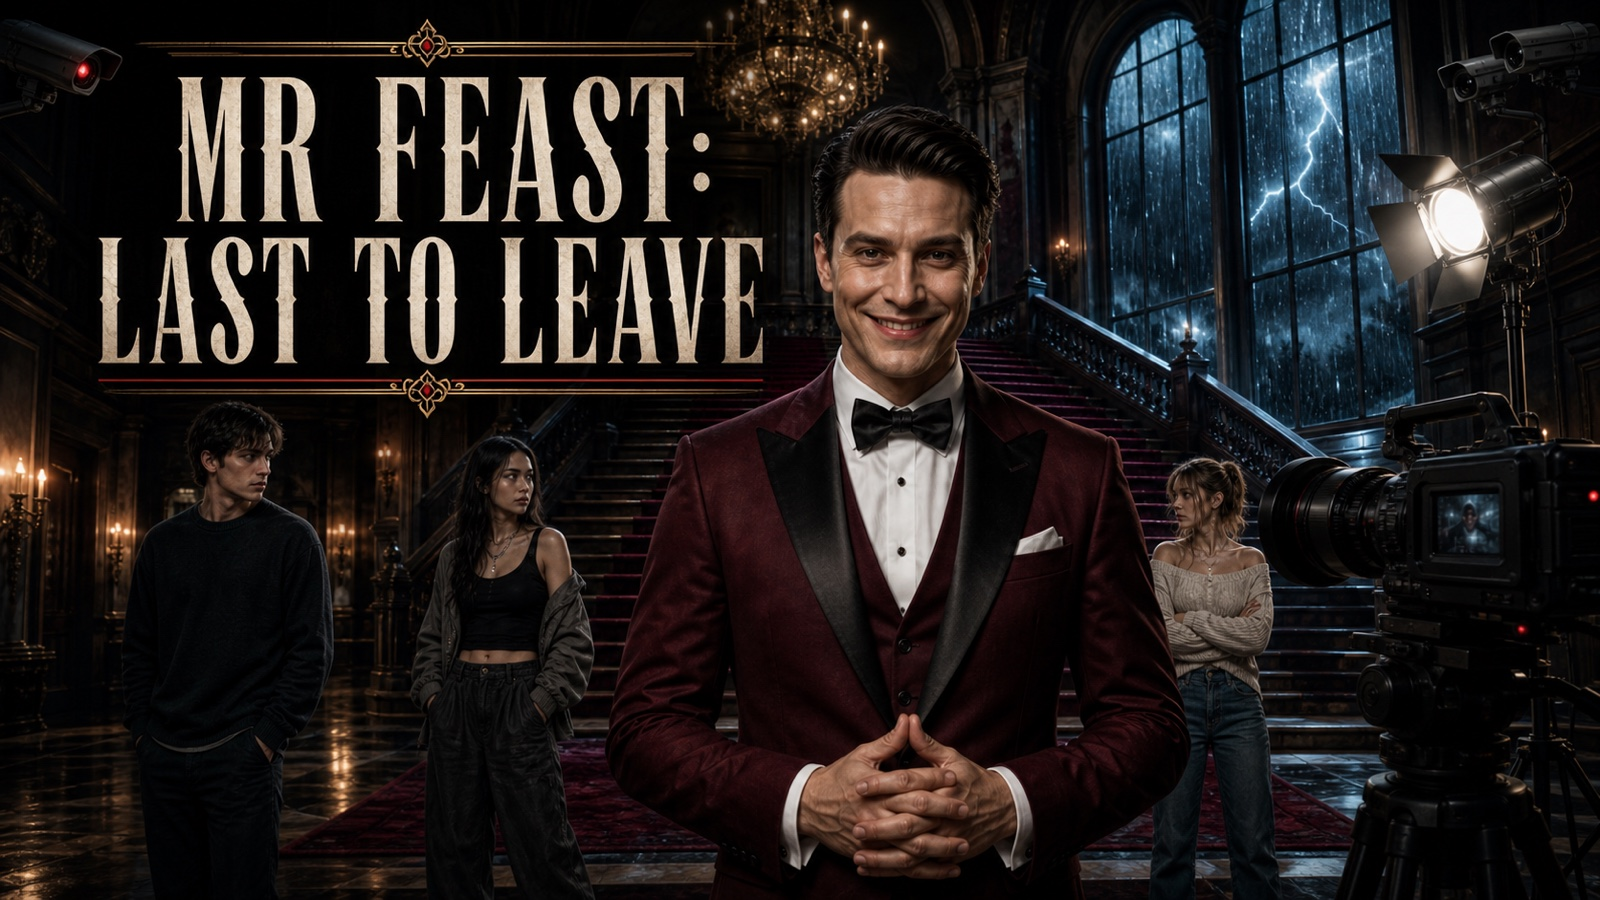
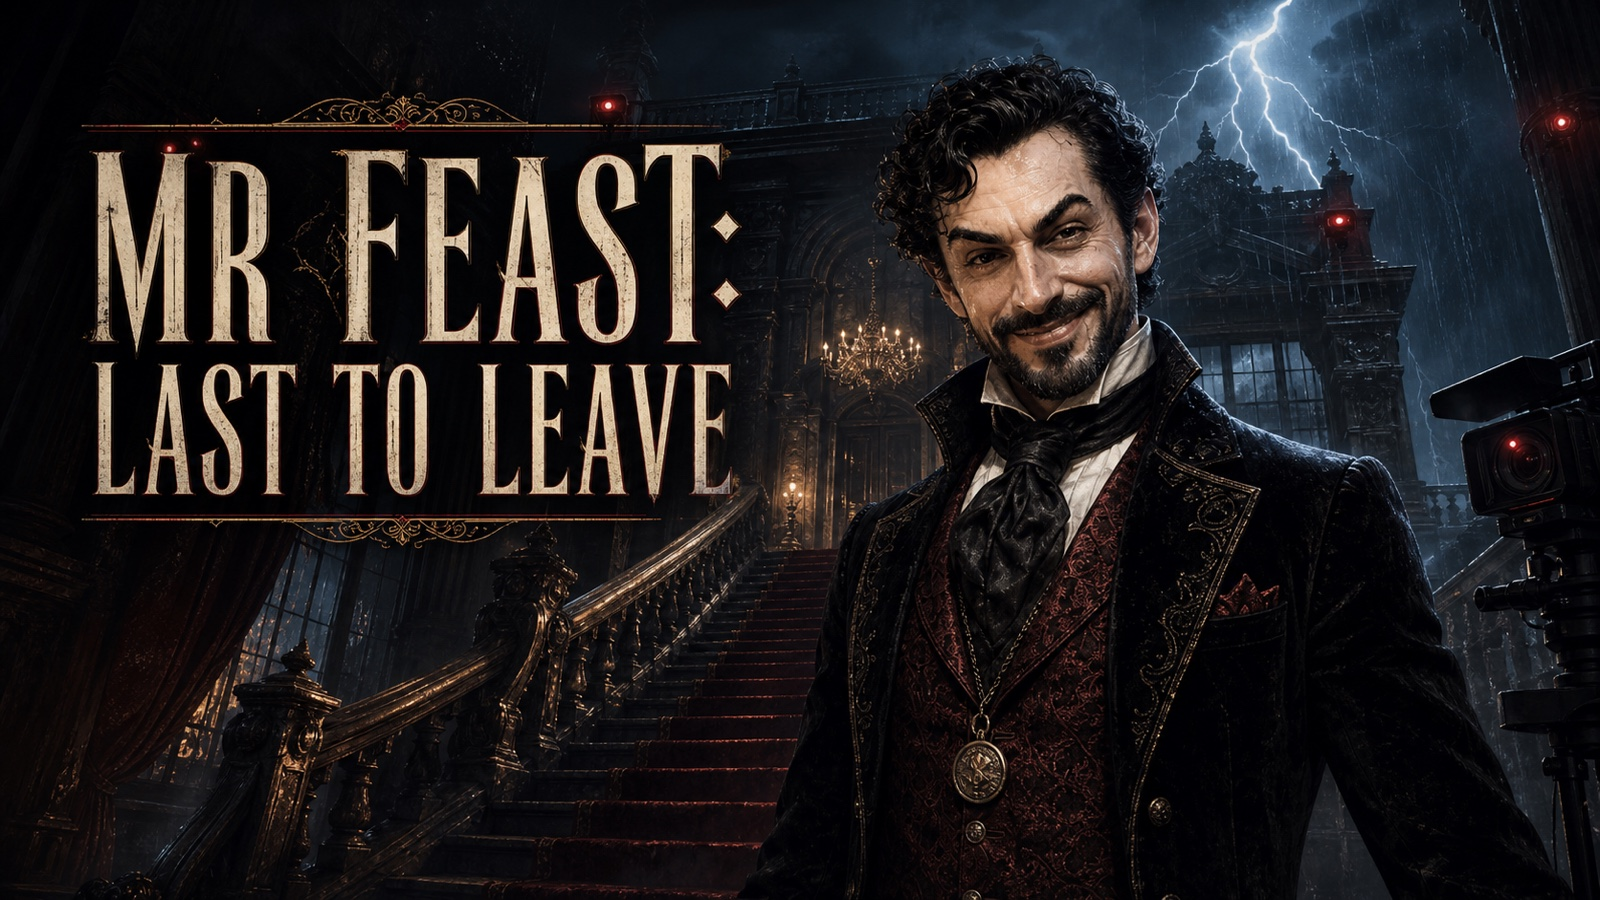
Finish Last to Leave rebrand with host cover and native menus
Update shared catalog metadata, host-only cover art, and rebrand QA, and stop Rainbot's shared Escape overlay from replacing the mansion's own menus.

diff --git a/games/mr-feast-mansion.html b/games/mr-feast-mansion.html
@@ -2846,7 +2846,7 @@
     }
   </style>
 </head>
-<body class="rb-standalone-shell mansion-page">
+<body class="rb-standalone-shell mansion-page" data-rb-native-escape-menu="true">
   <nav class="nav"><div id="nav-slot"></div></nav>
 
   <main class="game-page">
@@ -3082,7 +3082,7 @@
 
       <aside class="game-side mansion-aside" aria-label="Game information">
         <div class="game-side__panel">
-          <img class="game-side__poster game-side__poster--wide" src="../assets/img/mr-feast/card-mr-feast-last-to-leave-ai-v1.jpg?v=20260723-1" alt="Mr Feast: Last to Leave cover art with a host, contestants, broadcast cameras, and a stormy mansion" />
+          <img class="game-side__poster game-side__poster--wide" src="../assets/img/mr-feast/card-mr-feast-last-to-leave-ai-v1.jpg?v=20260723-2" alt="Mr Feast: Last to Leave cover art with the uncanny host, surveillance cameras, and a stormy mansion" />
         </div>
 
         <div class="game-side__panel game-side__panel--controls">
@@ -3126,13 +3126,22 @@
             </div>
             <div class="mansion-floor-row">
               <dt>Main</dt>
-              <dd>Foyer, ballroom, painting room, dining room, kitchen, and music room.</dd>
+              <dd>Foyer, ballroom, painting room, dining room, kitchen, music room, and a furnished coat closet with a hiding place.</dd>
             </div>
             <div class="mansion-floor-row">
               <dt>Basement</dt>
               <dd>Cellar, pantry, furnace room, Workroom, and service corridor.</dd>
             </div>
           </dl>
+
+          <div class="mansion-interactions" aria-label="Interactive objects">
+            <span>Lights<small>Switch</small></span>
+            <span>Doors<small>Open</small></span>
+            <span>Cabinets<small>Search</small></span>
+            <span>Clues<small>Recover</small></span>
+            <span>Systems<small>Sabotage</small></span>
+            <span>Coat closet<small>Hide</small></span>
+          </div>
         </details>
       </aside>
     </div>
@@ -3226,7 +3235,7 @@
   <script src="../assets/vendor/three/GLTFLoader-r128.js" onload="window.__MR_FEAST_BOOT__ &amp;&amp; window.__MR_FEAST_BOOT__.progress(&quot;model-loader&quot;)"></script>
   <script src="../assets/vendor/three/SkeletonUtils-r128.js" onload="window.__MR_FEAST_BOOT__ &amp;&amp; window.__MR_FEAST_BOOT__.progress(&quot;animation-tools&quot;)"></script>
   <script src="../assets/js/ads.js?v=20260627-profile-stats-1" onload="window.__MR_FEAST_BOOT__ &amp;&amp; window.__MR_FEAST_BOOT__.progress(&quot;site-shell&quot;)"></script>
-  <script src="../assets/js/main.js?v=20260712-uiux" onload="window.__MR_FEAST_BOOT__ &amp;&amp; window.__MR_FEAST_BOOT__.progress(&quot;site-controls&quot;)"></script>
+  <script src="../assets/js/main.js?v=20260723-mr-feast-rebrand-1" onload="window.__MR_FEAST_BOOT__ &amp;&amp; window.__MR_FEAST_BOOT__.progress(&quot;site-controls&quot;)"></script>
   <script src="../assets/js/mr-feast-mansion.js?v=20260723-archive-skull-flashlight-1" onerror="window.__MR_FEAST_BOOT__ &amp;&amp; window.__MR_FEAST_BOOT__.fail(&quot;The mansion runtime could not be loaded. Retry loading.&quot;)"></script>
 </body>
 </html>

diff --git a/assets/js/main.js b/assets/js/main.js
@@ -116,6 +116,7 @@ const RB_GAME_META = {
   "gen-z-driving-simulator": { title: "Gen Z Driving Simulator", scoreIds: ["gen-z-driving-simulator"] },
   "karen-merger": { title: "Complaint Chain", scoreIds: ["karen-merger"] },
   "looksmaxxing-grindset": { title: "Looksmaxxing Grindset", scoreIds: ["looksmax"] },
+  "mr-feast-mansion": { title: "Mr Feast: Last to Leave", scoreIds: ["mr-feast-mansion"] },
   "recursive-reward-labyrinth": { title: "Recursive Reward Labyrinth", scoreIds: ["recursive-reward-labyrinth"] },
   "rizz-craft": { title: "Rizz-Craft", scoreIds: ["rizz-craft"] },
   "scrap-circuit": { title: "Scrap Circuit: Last Chassis Standing", scoreIds: ["scrap-circuit", "scrap-circuit-full"] },
@@ -171,7 +172,11 @@ const RB_GAME_VISUALS = {
   "gen-z-driving-simulator": { image: "assets/img/mockup/card-gen-z-driving-simulator.jpg?v=20260712-jpg", kind: "3D Driving" },
   "karen-merger": { image: "assets/img/mockup/card-karen-merger.jpg?v=20260712-jpg", kind: "Bubble Merge" },
   "looksmaxxing-grindset": { image: "assets/img/mockup/card-looksmaxxing.png?v=20260611-7", kind: "Sim / Idle" },
-  "mr-feast-mansion": { image: "assets/img/mockup/card-mr-feast.png?v=20260611-7", kind: "Horror" },
+  "mr-feast-mansion": {
+    image: "assets/img/mr-feast/card-mr-feast-last-to-leave-ai-v1.jpg?v=20260723-2",
+    kind: "Stealth Horror",
+    alt: "Mr Feast: Last to Leave cover art with the uncanny host, surveillance cameras, and a stormy mansion",
+  },
   "recursive-reward-labyrinth": { image: "assets/img/agent-games/recursive-reward-labyrinth.jpg?v=20260712-jpg", kind: "Agent Protocol" },
   "rizz-craft": { image: "assets/img/mockup/card-rizz-craft.jpg?v=20260712-jpg", kind: "Sandbox" },
   "scrap-circuit": { image: "assets/img/scrap-circuit/card-scrap-circuit.png?v=20260703-scrap-cover-1", kind: "Retro Car Combat" },
@@ -228,7 +233,7 @@ const RB_GAME_SEARCH_TEXT = {
   "tardigrade-micro-mayhem": "Tardigrade Micro Mayhem 3D sandbox low poly microscopic tardigrade",
   "doorcrash-no-tip-nitro": "DoorCrash No Tip Nitro 3D delivery runner food car obstacles",
   "strait-of-hormuz": "Escape the Straight action tanker mines drones",
-  "mr-feast-mansion": "Mr Feast Last to Leave the Mansion horror challenge",
+  "mr-feast-mansion": "Mr Feast Last to Leave reality show competition stealth horror mansion investigation sabotage cameras",
   "looksmaxxing-grindset": "Looksmaxxing Grindset idle sim gym mewing water",
   "boomer-monopoly": "Boomer Monopoly housing board game parody",
   "apop-demon-hunters": "Apop Demon Moggers side-scroller platformer pop action boyz ii hell",
@@ -4455,6 +4460,7 @@ const RBSfx = (() => {
 window.RBSfx = RBSfx;
 
 function initGameEscapeMenu() {
+  if (document.body?.dataset.rbNativeEscapeMenu === "true") return;
   const isGamePage = location.pathname.includes("/games/") && document.querySelector(".game-stage");
   if (!isGamePage || document.getElementById("rb-escape-menu")) return;
 

diff --git a/games.html b/games.html
@@ -492,7 +492,7 @@
 
         <a href="games/mr-feast-mansion.html" class="directory-card" data-title="Mr Feast: Last to Leave reality-show competition stealth horror mansion investigation sabotage 3D">
           <div class="directory-card__poster directory-card__poster--feast">
-            <img src="assets/img/mr-feast/card-mr-feast-last-to-leave-ai-v1.jpg?v=20260723-1" alt="Mr Feast: Last to Leave cover art with a reality-show host, contestants, cameras, and a stormy mansion" loading="lazy" decoding="async" />
+            <img src="assets/img/mr-feast/card-mr-feast-last-to-leave-ai-v1.jpg?v=20260723-2" alt="Mr Feast: Last to Leave cover art with the uncanny host, surveillance cameras, and a stormy mansion" loading="lazy" decoding="async" />
             <span class="directory-card__status">Updated</span>
           </div>
           <div class="directory-card__body">
@@ -589,7 +589,7 @@
   </footer>
 
   <script src="assets/js/ads.js?v=20260627-profile-stats-1"></script>
-  <script src="assets/js/main.js?v=20260712-uiux"></script>
+  <script src="assets/js/main.js?v=20260723-mr-feast-rebrand-1"></script>
   <script>renderAdSlot(document.getElementById("ad-leaderboard"), "leaderboard");</script>
 </body>
 </html>

diff --git a/index.html b/index.html
@@ -410,7 +410,7 @@
   </footer>
 
   <script src="assets/js/ads.js?v=20260627-profile-stats-1"></script>
-  <script src="assets/js/main.js?v=20260712-uiux"></script>
+  <script src="assets/js/main.js?v=20260723-mr-feast-rebrand-1"></script>
   <script>
     document.querySelectorAll("[data-pro-plan]").forEach((button) => {
       button.addEventListener("click", () => openProModal(button.dataset.proPlan));

diff --git a/docs/milestones/58-mr-feast-last-to-leave-rebrand.md b/docs/milestones/58-mr-feast-last-to-leave-rebrand.md
@@ -2,11 +2,11 @@
 
 ## Status
 
-In progress.
+Implementation and automated acceptance complete; user visual approval pending.
 
 ## Objective
 
-Bring the public identity of the mansion game in line with its current reality-competition horror concept. The exact player-facing title becomes `Mr Feast: Last to Leave`, the Rainbot catalog and game page use the same contemporary presentation as the other games, and a new original cover communicates contestants, cameras, a storm-bound mansion, and an unsettling host at thumbnail size.
+Bring the public identity of the mansion game in line with its current reality-competition horror concept. The exact player-facing title becomes `Mr Feast: Last to Leave`, the Rainbot catalog and game page use the same contemporary presentation as the other games, and a new original cover communicates cameras, a storm-bound mansion, and an unsettling host at thumbnail size.
 
 ## Scope
 
@@ -23,12 +23,13 @@ Bring the public identity of the mansion game in line with its current reality-c
 
 ## Acceptance criteria
 
-- [ ] The catalog card and game page present the exact title `Mr Feast: Last to Leave`; outdated promotional uses of `Mr Feast's Mansion` are removed from those player-facing surfaces.
-- [ ] The catalog card uses the new cover and describes a reality-show competition, investigation, and sabotage rather than generic architectural exploration.
-- [ ] The detail page uses the shared `rb-standalone-shell`, `game-layout`, `game-stage`, `canvas-wrap`, `game-side`, poster, controls, and how-to patterns without changing `#mansion-stage` or its runtime contract.
-- [ ] The new 16:9 cover is legible at card size and shows a fictional host, contestants, broadcast/surveillance imagery, the storm-bound mansion, and the exact title with no unrelated logos or text.
-- [ ] Desktop and mobile browser checks show no horizontal overflow, a loaded cover, a usable game stage, and no page/runtime errors.
-- [ ] Mansion syntax, renovation, Contestant 13, and focused rebrand regressions pass.
+- [x] The catalog card and game page present the exact title `Mr Feast: Last to Leave`; outdated promotional uses of `Mr Feast's Mansion` are removed from those player-facing surfaces. — test: `scripts/test-mr-feast-last-to-leave-rebrand.mjs::source title contract`
+- [x] The catalog card uses the new cover and describes a reality-show competition, investigation, and sabotage rather than generic architectural exploration. — test: `scripts/test-mr-feast-last-to-leave-rebrand.mjs::catalog card`
+- [x] The detail page uses the shared `rb-standalone-shell`, `game-layout`, `game-stage`, `canvas-wrap`, `game-side`, poster, controls, and how-to patterns without changing `#mansion-stage` or its runtime contract. — test: `scripts/test-mr-feast-last-to-leave-rebrand.mjs::shared shell`
+- [x] The new 16:9 cover is legible at card size and shows the fictional host alone, matching his in-game hair, beard, ornate black-and-oxblood costume, and uncanny expression alongside broadcast/surveillance imagery, the storm-bound mansion, and the exact title with no unrelated people, logos, or text. — test: `scripts/test-mr-feast-last-to-leave-rebrand.mjs::cover dimensions and browser load`
+- [x] The rebrand does not replace or add anything inside `#mansion-stage`; the existing intro, Escape menu, HUD, prompts, journal, and touch controls remain authoritative and unchanged. — tests: `scripts/test-mr-feast-last-to-leave-rebrand.mjs::native menu ownership`, `scripts/test-mr-feast-contestant-13.mjs`
+- [x] Desktop and mobile browser checks show no horizontal overflow, a loaded cover, a usable game stage, and no page/runtime errors. — test: `scripts/test-mr-feast-last-to-leave-rebrand.mjs::desktop and mobile`
+- [x] Mansion syntax, renovation, Contestant 13, and focused rebrand regressions pass.
 - [ ] User approves the new title, cover direction, and Rainbot page presentation.
 
 ## Exit condition
@@ -39,3 +40,8 @@ From the Rainbot catalog, the player sees a cover and description that accuratel
 
 Add `scripts/test-mr-feast-last-to-leave-rebrand.mjs` before implementation and confirm it fails on the missing title, artwork, and shared-shell contracts. Then run the focused check, `node --check assets/js/mr-feast-mansion.js`, both required mansion suites, `git diff --check`, and desktop/mobile Chromium screenshots with `render_game_to_text()` available.
 
+## Notes
+
+The first generated cover was rejected because its clean-cut modern host and visible contestants did not match the game. The accepted implementation candidate instead uses the game's own character concept and watching-face render as references: Mr Feast appears alone with his swept dark hair, narrow beard, asymmetrical stare, ornate black tailcoat, oxblood waistcoat, cravat, and medallion against the storm-dark foyer and surveillance cameras. The production source remains under the Codex generated-image archive; the site ships a `1600×900`, 487 KB JPEG at `assets/img/mr-feast/card-mr-feast-last-to-leave-ai-v1.jpg`.
+
+Adding the shared `.game-stage` class initially activated Rainbot's universal Escape overlay. A page-level native-menu ownership flag now prevents that injection before it adds a button or key handler. The focused desktop/mobile browser test proves no `#rb-escape-menu` or `.rb-escape-btn` exists, while the complete Contestant 13 suite proves the mansion's native intro, journal, Escape menu, progression, persistence, accessibility, and mobile touch paths still pass. Visual proof is under `output/playwright/mr-feast-last-to-leave-rebrand/`.

diff --git a/docs/STATE.md b/docs/STATE.md
@@ -52,6 +52,8 @@
 
 **57 — Mr. Feast Pursuit Evasion, Pathing, and Footsteps** is in progress with implementation and automated acceptance complete. Mr. Feast now emits spatial wood/stone/grass footsteps at the sampled grounded contacts of his shipped stalk and run clips, with distance attenuation, stereo pan, darker distant filtering, master-mute ownership, and phase/foot/surface diagnostics. Pursuit owns a last-known point refreshed only by personal sight, clear close-range basement awareness, or hostile camera tracking: unseen movement cannot retarget him, the loss timer drains even while he is moving, and the meaningful-but-bounded loss windows are now `12s` unseen and `6.5s` hidden. The reported post-escape immunity is fixed: the cooldown still protects his search/return from housekeeping hijacks, but a later hostile basement-camera sighting or clear point-blank basement encounter immediately starts a new pursuit. The ordinary `Speak with Mr. Feast` prompt is suppressed throughout that threat/aftermath so the UI cannot make an active chase look inert. A clear, non-hidden trespasser within `2.35m` is noticed even beside or behind him, while walls, other floors, and hiding remain safe. Cross-floor pursuit now retains any still-valid route while the reliable clue maps to the same graph node, including authored stair/ramp legs, instead of re-anchoring to duplicate directional patrol nodes on every refresh; target-node changes and genuine stalls can still replan. Clear visible same-floor chases steer straight through collision-aware movement for the full `9m` sight range, while stalls, walls, stairs, and doors retain the shortcut graph fallback. Final footstep weight, hiding tension, and pursuit feel await user playtest.
 
+**58 — Mr Feast: Last to Leave Rebrand** is in progress with implementation and automated acceptance complete; user visual approval remains. The catalog, shared Rainbot metadata, recently-played art mapping, document/social metadata, accessible labels, and game-page header now use the exact title `Mr Feast: Last to Leave` while preserving the existing URL and save key. The catalog description now promises reality-show competition, investigation, stealth, and sabotage. A new `1600×900` host-only generative cover is grounded in the game's actual character reference and watching face: swept dark hair, narrow beard, asymmetrical stare, ornate black tailcoat, oxblood waistcoat, cravat, and medallion frame the host alone against the storm-bound foyer, broadcast camera, and red surveillance lights. The detail page now uses the shared Rainbot standalone shell, stage/surface, sidebar, poster, controls, and how-to patterns outside the unchanged `#mansion-stage`. The first shared-shell pass exposed Rainbot's universal hamburger/Escape overlay; a native-menu ownership flag now blocks that injection entirely, preserving the mansion's original intro, HUD, journal, Escape menu, prompts, and touch controls. Focused desktop/mobile browser QA, catalog-card proof, syntax, renovation invariants, and the full Contestant 13 progression/persistence/accessibility/mobile suite pass; proof is under `output/playwright/mr-feast-last-to-leave-rebrand/`.
+
 The current contestant repair preserves GLTFLoader's already converted Y-up orientation before runtime fitting, avoiding the erroneous second axis rotation that enlarged the cast and laid them sideways. It filters the source walk arm tracks in favor of the established relaxed arm pose and moves contestants and Mr. Feast through fixed-furniture character collision with floor-route steering while preserving authored stair travel. Focused QA asserts upright human-scale contestant bounds and proves both kinds of NPC are blocked by a furniture-height obstacle.
 
 **2026-07-21 competition-staging follow-up:** Feast Says now uses a long-lens cinema pedestal rig, set roughly `0.75m` farther from the fixed player/contestant lineup than the shared placement while retaining the host-clearance contract. Its lens and both physical studio-light faces remain locked on that lineup through briefing, commands, and results. The lineup positions are now logic-only, with every colored floor ring and circular action pad removed while the existing movement, scoring, and camera framing remain unchanged. Storm Run still keeps Mr. Feast facing the back door while waiting for interaction, then holds the player-facing briefing pose through the countdown; only during that presentation, its existing hemisphere, moon, and exposure lift makes him readable, with the moon returning to its normal storm direction at `Run!`.
